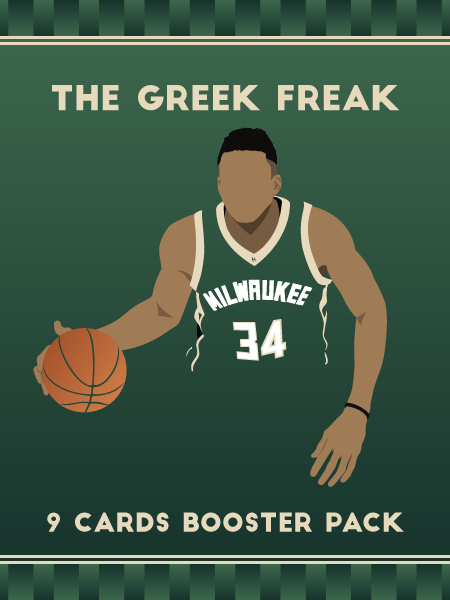
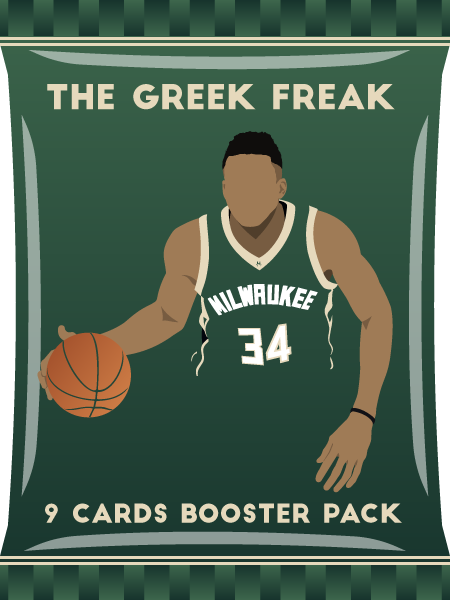
Add The Greek Freak booster pack

diff --git a/assets/js/data.js b/assets/js/data.js
@@ -72,6 +72,13 @@ const shop_json = [{
     "filename": "king_james",
     "content": ["0141", "0142", "0143", "0144", "0145", "0146", "0147", "0148", "0149", "0150", "0151", "0152", "0153", "0154", "0155", "0156", "0157", "0158", "0159", "0160", "0161", "0162", "0163", "0164", "0165", "0166", "0167", "0168", "0169", "0170"],
     "price": 200
+}, {
+    "id": "006",
+    "code": "tgf",
+    "name": "The Greek Freak",
+    "filename": "the_greek_freak",
+    "content": ["0171", "0172", "0173", "0174", "0175", "0176", "0177", "0178", "0179", "0180", "0181", "0182", "0183", "0184", "0185", "0186", "0187", "0188", "0189", "0190", "0191", "0192", "0193", "0194", "0195", "0196", "0197", "0198", "0199", "0200"],
+    "price": 200
 }];
 
 const off_stats_json = [{
